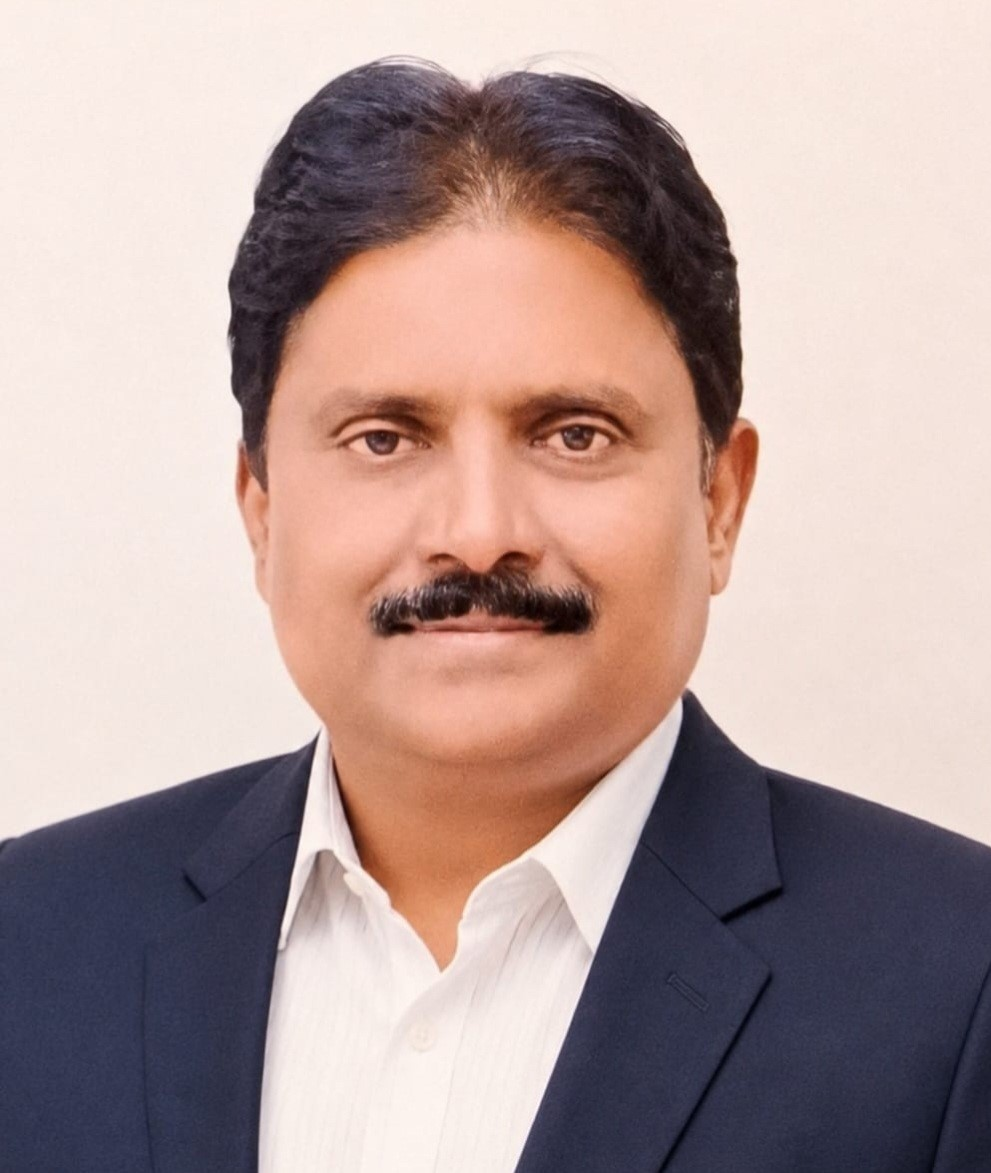
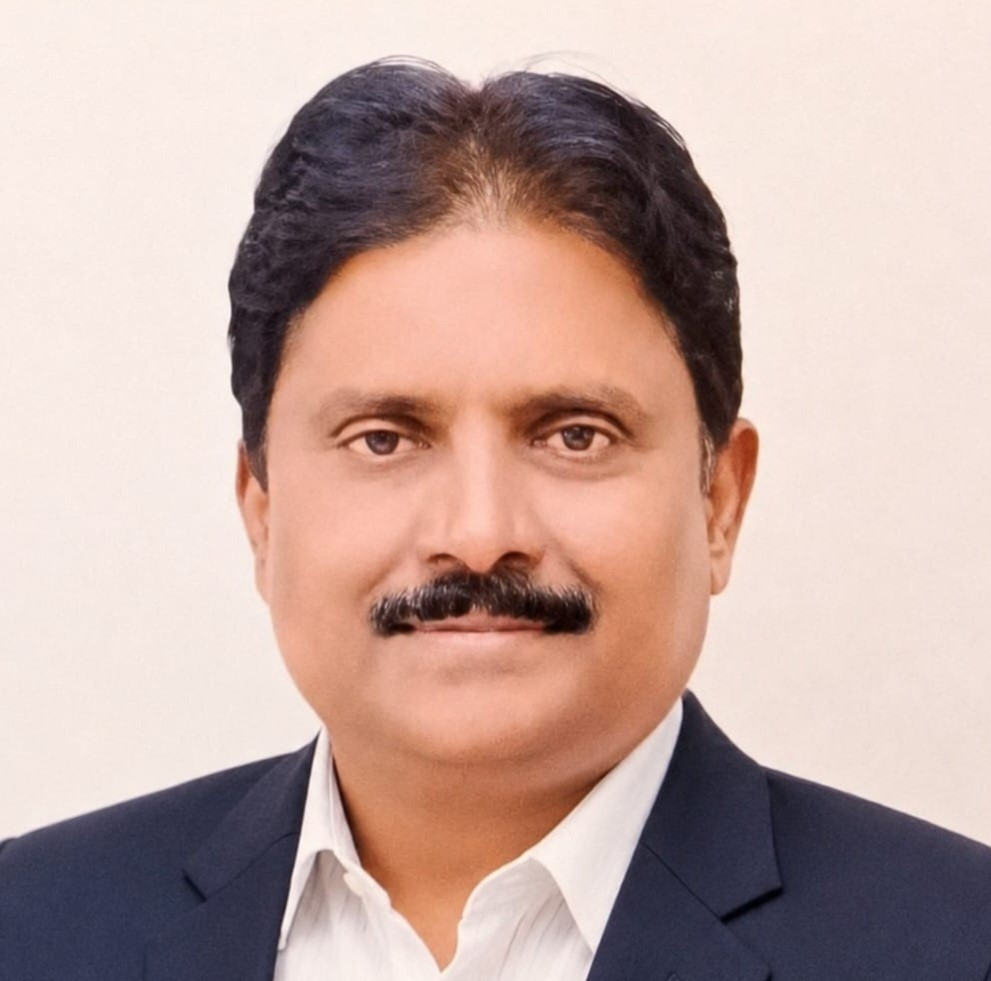
v7.4

diff --git a/src/app/(Landing)/UnderGuidance.jsx b/src/app/(Landing)/UnderGuidance.jsx
@@ -1,0 +1,99 @@
+const UnderGuidance = ({ mentors }) => {
+  return (
+    <section
+      id="guidance"
+      className="bg-gradient-to-br from-slate-900 via-blue-950 to-indigo-950 py-16 lg:py-24"
+    >
+      <div className="mx-auto max-w-7xl px-4 sm:px-6 lg:px-8">
+
+        {/* Heading */}
+        <div className="mb-14 text-center">
+          <div className="mx-auto mb-4 h-1 w-16 rounded-full bg-gradient-to-r from-blue-400 via-violet-400 to-pink-400" />
+
+          <h2 className="text-3xl font-bold tracking-tight text-white sm:text-4xl">
+            Under the Guidance of
+          </h2>
+
+          <p className="mx-auto mt-4 max-w-3xl leading-7 text-blue-100">
+            Our academy is privileged to be guided by distinguished educators
+            whose decades of experience, academic leadership, and dedication to
+            quality education continue to inspire our vision and strengthen our
+            commitment to student success.
+          </p>
+        </div>
+
+        {/* Mentor Cards */}
+        <div className="grid gap-8 lg:grid-cols-2">
+
+          {mentors.map((mentor, index) => (
+            <div
+              key={index}
+              className="rounded-[30px] border border-white/10 bg-white/10 p-8 backdrop-blur-xl shadow-xl transition-all duration-300 hover:-translate-y-2 hover:border-blue-300/40 hover:shadow-2xl hover:shadow-blue-900/30"
+            >
+              {/* Top */}
+              <div className="flex flex-col items-center gap-6 sm:flex-row">
+
+                <img
+                  src={mentor.image}
+                  alt={mentor.name}
+                  className="h-36 w-36 rounded-full border-4 border-white object-cover shadow-xl ring-4 ring-blue-400/20"
+                />
+
+                <div className="flex-1 text-center sm:text-left">
+
+                  <h3 className="text-2xl font-bold text-white">
+                    {mentor.name}
+                  </h3>
+
+                  <p className="mt-2 text-blue-100">
+                    {mentor.qualification}
+                  </p>
+
+                  <div className="mt-5 flex flex-wrap justify-center gap-3 sm:justify-start">
+
+                    <span className="rounded-full bg-blue-500/20 px-4 py-2 text-sm font-semibold text-blue-100">
+                      {mentor.designation}
+                    </span>
+
+                    <span className="rounded-full bg-purple-500/20 px-4 py-2 text-sm font-semibold text-purple-100">
+                      {mentor.experience}
+                    </span>
+
+                  </div>
+
+                </div>
+              </div>
+
+              {/* Divider */}
+              <div className="my-7 h-px w-full bg-gradient-to-r from-blue-500 via-violet-500 to-pink-500" />
+
+              {/* Organization */}
+              <div className="rounded-2xl border border-white/10 bg-white/5 px-5 py-4">
+                <p className="text-center text-sm font-medium text-blue-100">
+                  {mentor.organization}
+                </p>
+              </div>
+
+              {/* Story */}
+              <p className="mt-6 leading-8 text-slate-200">
+                {mentor.story}
+              </p>
+
+              {/* Bottom Quote */}
+              <div className="mt-8 rounded-2xl border border-white/10 bg-gradient-to-r from-blue-500/10 to-violet-500/10 p-5">
+                <p className="italic leading-7 text-blue-100">
+                  "Their invaluable guidance and decades of educational
+                  excellence continue to shape the vision, values, and academic
+                  standards of Innovative Academy."
+                </p>
+              </div>
+            </div>
+          ))}
+
+        </div>
+      </div>
+    </section>
+  );
+};
+
+export default UnderGuidance;

diff --git a/src/app/(Landing)/page.tsx b/src/app/(Landing)/page.tsx
@@ -3,7 +3,9 @@ import { useState, useEffect } from 'react';
 import { Menu, X, Check, ChevronLeft, ChevronRight, Mail, Phone, MapPin, Play, Star } from 'lucide-react';
 import { ArrowRight } from "lucide-react";
 import "./landing.css"
+
 import TeamSliderSection from "./TeamSliderSection";
+import UnderGuidance from "./UnderGuidance";
 import { useRouter } from 'next/navigation';
 import ReviveSlider from "./ReviveSlider";
 
@@ -61,6 +63,43 @@ const facultyMembers = [
     image: "/images/team/simmy.jpg",
   },
 ];
+
+const mentors = [
+  {
+    image: "/images/team/mohammadali.jpg",
+
+    name: "Prof. Mahamadali Mujawar",
+
+    qualification: "M.Sc. Physics, B.Ed.",
+
+    designation: "Ex-HOD, Department of Physics",
+
+    organization: "Dr. Bapuji Salunkhe Jr. College, Miraj",
+
+    experience: "30+ Years of Teaching Experience",
+
+    story:
+      "With more than 30 years of rich academic experience, Prof. Mahamadali Mujawar has made valuable contributions to the field of education. As the former Head of the Department of Physics at Dr. Bapuji Salunkhe Jr. College, Miraj, he played a key role in strengthening academic excellence. He also introduced and guided special CET coaching initiatives, helping countless students build a strong conceptual foundation in Physics and competitive examinations."
+  },
+
+  {
+    image: "/images/team/maner.jpg",
+
+    name: "Dr. Shahjahan Maner",
+
+    qualification: "Academic Leader & Educationist",
+
+    designation: "Ex-Principal",
+
+    organization: "Shri Swami Vivekanand Shikshan Sanstha, Kolhapur",
+
+    experience: "30+ Years of Academic Experience",
+
+    story:
+      "Dr. Shahjahan Maner has devoted more than three decades to academic leadership and quality education. As the former Principal of Shri Swami Vivekanand Shikshan Sanstha, Kolhapur, and a former faculty member at Dr. Bapuji Salunkhe Jr. College, Miraj, he has contributed significantly to student development, institutional growth, and academic excellence. His experience and guidance continue to inspire our vision of delivering meaningful education."
+  },
+];
+
 
 export default function Index() {
   const [mobileMenuOpen, setMobileMenuOpen] = useState(false);
@@ -197,7 +236,7 @@ const reviveReviews = [
  <a href="#home" >
                 
              
-  <img src="/images/logos/logo.png" className='w-70'/>
+  <img src="/images/logos/innovative-academy.png" className='w-70'/>
    </a>
             </div>
             {/* Desktop Menu */}
@@ -398,7 +437,7 @@ const reviveReviews = [
           <div className="relative overflow-hidden rounded-[32px] border border-slate-200 bg-white p-4 shadow-[0_20px_50px_rgba(15,23,42,.10)]">
             <div className="aspect-square rounded-3xl bg-gradient-to-br from-slate-900 to-slate-800 flex items-center justify-center">
               <img
-                src="/images/logos/logo-innovative-dark.png"
+                src="/images/logos/innovative-academy-dark.png"
                 alt="Innovative Academy"
                 className="w-64 object-contain transition-transform duration-500 hover:scale-105"
               />
@@ -621,6 +660,11 @@ p-8">
                 <p className="text-sm text-slate-500 mb-4">Education | 20+ Years Experience | Professional Trainer | Service Provider to NAAC & many more colleges</p>
 
                 <div className="border-t border-gray-200 my-4"></div> */}
+                <div className="flex flex-wrap  gap-4">
+                <div className="flex md:hidden text-center w-full justify-center">
+                  <img src="/images/abbu2.png" className="text-center mx-auto h-28 w-28 rounded-full border-2 border-white ring-1 ring-purple-100 shadow-md object-cover" />
+                </div>
+                <div>
    <span className="inline-flex rounded-full bg-purple-100 px-4 py-1 text-xs font-semibold text-purple-700">
 Founder & CEO
 </span>
@@ -632,6 +676,7 @@ Shoukatali Mujawar
 <p className="mt-3 text-slate-500">
 20+ Years in Academic & Technical Education
 </p>
+</div></div>
                 <p className="mt-8 text-slate-600">Academic Education | Computer Professional Trainer | NAAC consultant to many more Colleges and Educational Institutions</p>
 
                   {/* <div className="aspect-square bg-gradient-to-br from-purple-500 to-purple-700 rounded-2xl flex items-center justify-center text-9xl">
@@ -681,6 +726,10 @@ Our founder has 20+ years of experience in the field of education and technology
           </div>
         </div>
       </section>
+
+
+{/* Under GUidance */}
+<UnderGuidance mentors={mentors} />
 
 <section id="team" className="bg-white py-20 lg:py-24">
 <div className="space-y-16 lg:space-y-20">
@@ -1382,7 +1431,7 @@ Our founder has 20+ years of experience in the field of education and technology
             <div>
               <h3 className="text-lg font-bold mb-4 bg-gradient-to-r from-purple-400 to-purple-600 bg-clip-text text-transparent">
                 
-  <img src="/images/logos/logo-innovative-dark.png" className='w-70'/>
+  <img src="/images/logos/innovative-academy-dark.png" className='w-70'/>
               </h3>
               <p className="text-gray-400 text-sm leading-relaxed">
                 Building Board Toppers, Olympiad achievers, and Competitive Champions through deep conceptual clarity and curiosity-driven learning.

diff --git a/src/app/(DashboardLayout)/dashboard/layout/sidebar/Sidebar.tsx b/src/app/(DashboardLayout)/dashboard/layout/sidebar/Sidebar.tsx
@@ -83,7 +83,7 @@
 //               themeSecondaryColor="#49beff"
 //               showProfile={false}
 //             >
-//                           <Box sx={{  width:"100%",display:"flex",justifyContent:"center",alignItems:"center", padding:"10px 0px 15px 0px"}}><Image src="/images/logos/logo-innovative.png" alt="Logo" width={200} height={100} style={{maxWidth:"260px",marginTop:"10px",height:"auto"}}  /></Box> 
+//                           <Box sx={{  width:"100%",display:"flex",justifyContent:"center",alignItems:"center", padding:"10px 0px 15px 0px"}}><Image src="/images/logos/innovative-academy.png" alt="Logo" width={200} height={100} style={{maxWidth:"260px",marginTop:"10px",height:"auto"}}  /></Box> 
 //               <Box>
                 
 //                 <SidebarItems toggleMobileSidebar={()=>onSidebarClose}  />
@@ -123,7 +123,7 @@
 //           themeSecondaryColor="#49beff"
 //           showProfile={false}
 //         >
-//          <Box sx={{width:"100%",display:"flex",justifyContent:"center",alignItems:"center",}}><Image src="/images/logos/logo-innovative.png" alt="Logo" width={200} height={100} style={{maxWidth:"260px",marginTop:"10px",paddingBottom:"10px",height:"auto"}}  /></Box> 
+//          <Box sx={{width:"100%",display:"flex",justifyContent:"center",alignItems:"center",}}><Image src="/images/logos/innovative-academy.png" alt="Logo" width={200} height={100} style={{maxWidth:"260px",marginTop:"10px",paddingBottom:"10px",height:"auto"}}  /></Box> 
            
 //           <SidebarItems toggleMobileSidebar={()=>onSidebarClose}  />
 
@@ -164,8 +164,8 @@ const Sidebar = ({ isMobileSidebarOpen, onSidebarClose, isSidebarOpen }: ItemTyp
       <Box sx={{ py: 2, display: "flex", justifyContent: "center" }}>
         <Image
           src={isDark
-      ? "/images/logos/logo-innovative-dark.png"
-      : "/images/logos/logo-innovative.png"}
+      ? "/images/logos/innovative-academy-dark.png"
+      : "/images/logos/innovative-academy.png"}
           alt="Logo"
           width={200}
           height={100}

diff --git a/src/app/(Landing)/components/Footer.tsx b/src/app/(Landing)/components/Footer.tsx
@@ -64,7 +64,7 @@
 //                 <b><span>&nbsp;&nbsp;&nbsp;</span>  Powered By</b>
 //                 <br />
 //                 <Link href={"https://myonlinehubs.com"}  >
-//                   <img src="./images/logos/logo-innovative-dark.png" style={{ maxWidth: "200px", marginTop: "10px" }} />
+//                   <img src="./images/logos/innovative-academy-dark.png" style={{ maxWidth: "200px", marginTop: "10px" }} />
 //                 </Link>
 //               </Typography>
 //             </Box>
@@ -291,8 +291,8 @@ export default function Footer() {
                 <br />
                 <Link href={"https://myonlinehubs.com"}  >
                   <img src={isDark
-      ? "/images/logos/logo-innovative-dark.png"
-      : "/images/logos/logo-innovative.png"} style={{ maxWidth: "200px", marginTop: "10px" }} />
+      ? "/images/logos/innovative-academy-dark.png"
+      : "/images/logos/innovative-academy.png"} style={{ maxWidth: "200px", marginTop: "10px" }} />
                 </Link>
               </Typography>
             </Box>

diff --git a/src/app/(Landing)/components/Navbar.tsx b/src/app/(Landing)/components/Navbar.tsx
@@ -175,8 +175,8 @@ const router = useRouter();
               </Typography> */}
                 <Box sx={{width:"100%",display:"flex",justifyContent:"center",alignItems:"center",}}>
                   <Image src={isDark
-      ? "/images/logos/logo-innovative-dark.png"
-      : "/images/logos/logo-innovative.png"} alt="Logo" width={200} height={100} style={{maxWidth:"250px",height:"auto"}}  />
+      ? "/images/logos/innovative-academy-dark.png"
+      : "/images/logos/innovative-academy.png"} alt="Logo" width={200} height={100} style={{maxWidth:"250px",height:"auto"}}  />
                   </Box> 
             </Box>
           </Link>

diff --git a/src/app/(Landing)/TeamSliderSection.jsx b/src/app/(Landing)/TeamSliderSection.jsx
@@ -4,7 +4,7 @@ import TeamMemberCard from "./TeamMemberCard";
 const TeamSliderSection = ({
   title,
   subtitle,
-  members = [],
+  members,
   direction = "left",
   speed = 40,
 }) => {